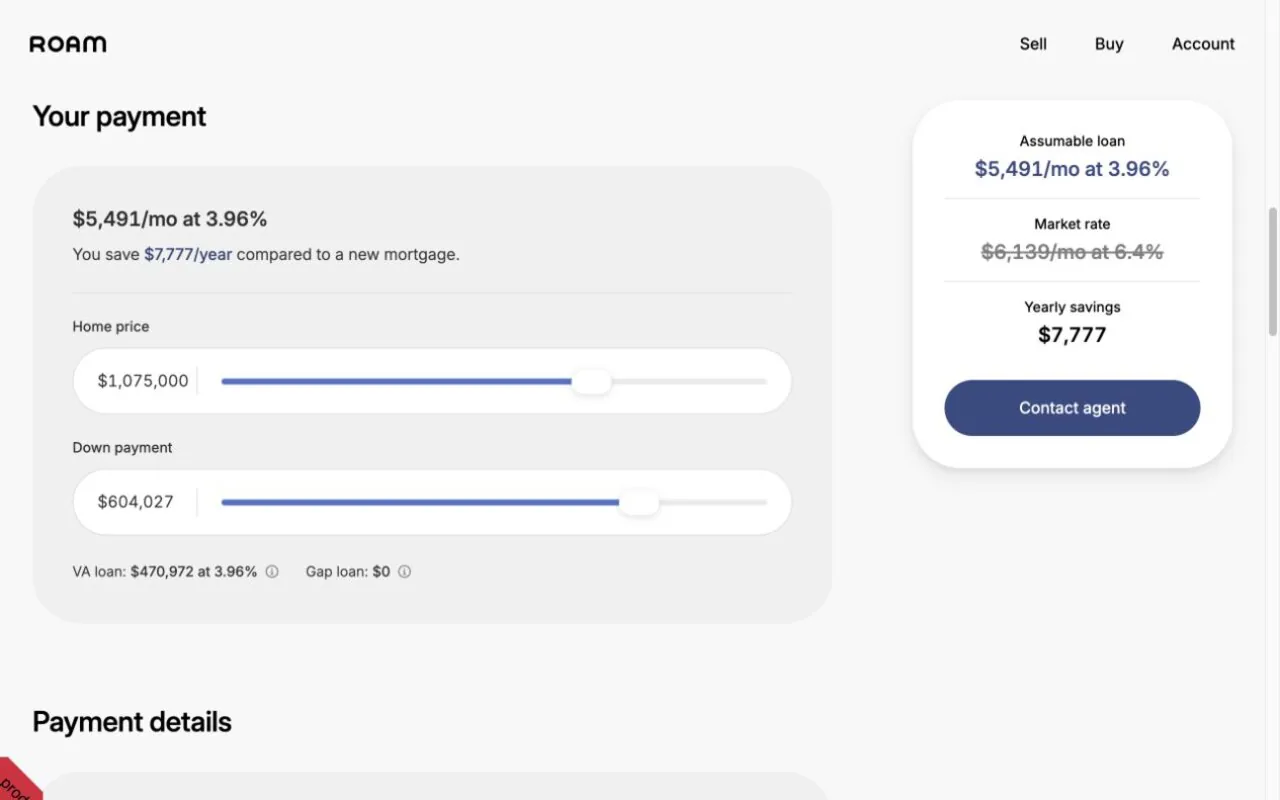
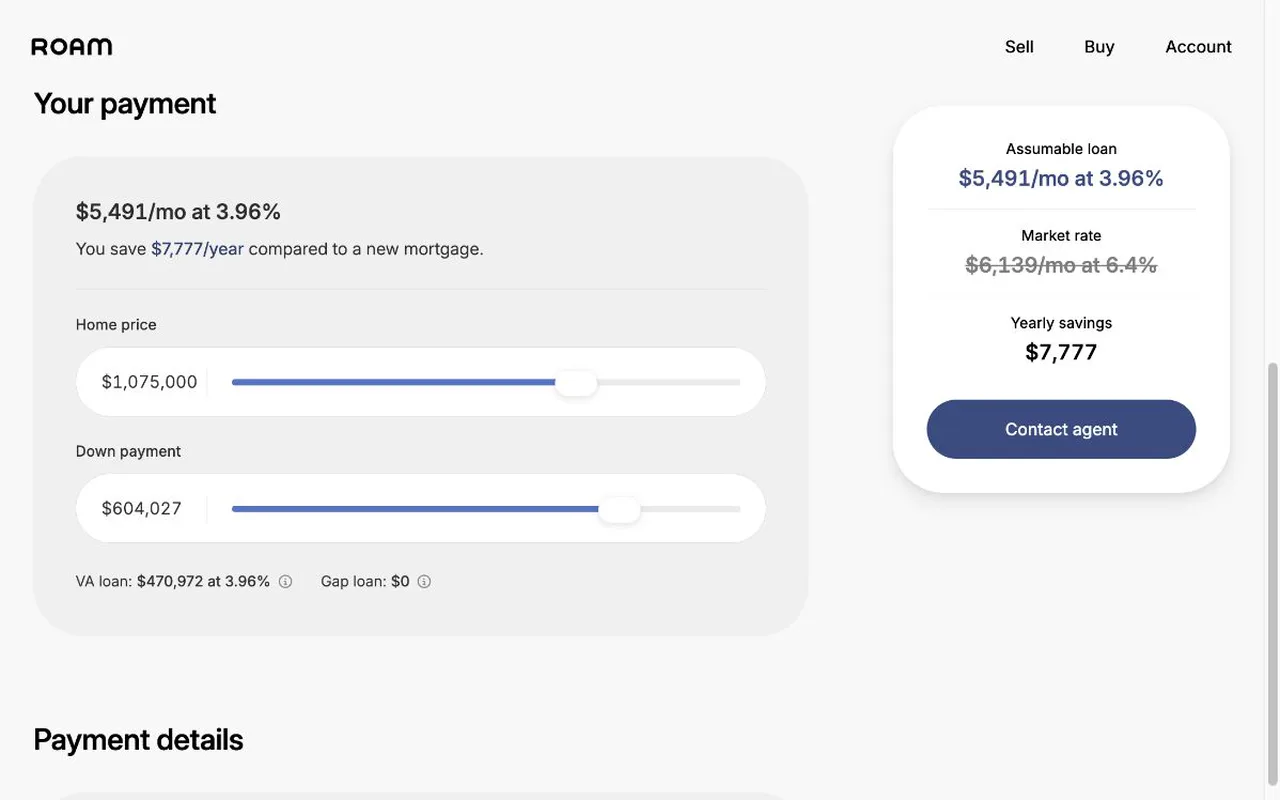
Add smooth authenticated Roam calculator demo

diff --git a/tests/e2e/about.spec.ts b/tests/e2e/about.spec.ts
@@ -42,9 +42,9 @@ test('about page carries the broader story, experience, and education', async ({
   await expect(disclosures).toHaveCount(3);
   await expect(mediaRegion.locator('.work-samples')).toHaveCount(3);
   await expect(mediaRegion.locator('.media-shot')).toHaveCount(6);
-  await expect(mediaRegion.locator('img')).toHaveCount(5);
-  await expect(mediaRegion.locator('video')).toHaveCount(1);
-  await expect(mediaRegion.locator('[data-product-video]')).toHaveCount(1);
+  await expect(mediaRegion.locator('img')).toHaveCount(4);
+  await expect(mediaRegion.locator('video')).toHaveCount(2);
+  await expect(mediaRegion.locator('[data-product-video]')).toHaveCount(2);
   await expect(mediaRegion.locator('.work-samples a')).toHaveCount(0);
   await expect(mediaRegion).toContainText('synthetic demo data');
   await expect(mediaRegion).not.toContainText('2 screens');
@@ -89,7 +89,22 @@ test('about page carries the broader story, experience, and education', async ({
   await expect(marketplaceDisclosure.locator('.media-shot').first()).toBeVisible();
   await expect(marketplaceDisclosure).not.toHaveAttribute('data-track-motion', 'opening');
 
-  const mobileSearchDemo = marketplaceDisclosure.locator('[data-product-video]');
+  const desktopCalculatorDemo = marketplaceDisclosure.locator('[data-product-video]').first();
+  const desktopCalculatorVideo = desktopCalculatorDemo.locator('video');
+  await desktopCalculatorDemo.hover();
+  await expect(desktopCalculatorDemo).toHaveAttribute('aria-pressed', 'true');
+  await expect
+    .poll(() => desktopCalculatorVideo.evaluate((video) => (video as HTMLVideoElement).currentTime))
+    .toBeGreaterThan(0.1);
+  const desktopVideoDimensions = await desktopCalculatorVideo.evaluate((video) => ({
+    width: (video as HTMLVideoElement).videoWidth,
+    height: (video as HTMLVideoElement).videoHeight,
+  }));
+  expect(desktopVideoDimensions).toEqual({ width: 1280, height: 800 });
+  await page.mouse.move(8, 8);
+  await expect(desktopCalculatorDemo).toHaveAttribute('aria-pressed', 'false');
+
+  const mobileSearchDemo = marketplaceDisclosure.locator('.media-shot--phone [data-product-video]');
   const mobileSearchVideo = mobileSearchDemo.locator('video');
   await mobileSearchDemo.hover();
   await expect(mobileSearchDemo).toHaveAttribute('aria-pressed', 'true');

diff --git a/tests/unit/site-data.test.ts b/tests/unit/site-data.test.ts
@@ -240,7 +240,9 @@ test('Roam experience media uses public product screens and a sanitized harness 
   for (const id of ['roam-marketplace', 'reed', 'agent-harness']) {
     expect(roamWorkSamplesSource).toContain(`id: '${id}'`);
   }
-  expect(roamWorkSamplesSource).toContain('roam-calculator-authenticated.webp');
+  expect(roamWorkSamplesSource).toContain('roam-calculator.webm');
+  expect(roamWorkSamplesSource).toContain('roam-calculator.mp4');
+  expect(roamWorkSamplesSource).toContain('roam-calculator-poster.webp');
   expect(roamWorkSamplesSource).toContain('roam-search-mobile.webm');
   expect(roamWorkSamplesSource).toContain('roam-search-mobile.mp4');
   expect(roamWorkSamplesSource).toContain('roam-search-mobile-poster.webp');
@@ -250,6 +252,7 @@ test('Roam experience media uses public product screens and a sanitized harness 
   expect(experienceReadme).toContain('ROAM_STORAGE_STATE');
   expect(roamWorkSamplesSource).toContain('data-product-video');
   expect(roamWorkSamplesSource).toContain('data-phone-frame');
+  expect(roamWorkSamplesSource).not.toContain('<figcaption');
   expect(roamWorkSamplesSource).toContain('prefers-reduced-motion: reduce');
   expect(roamWorkSamplesSource).toContain('reed-home.jpg');
   expect(roamWorkSamplesSource).toContain('reed-chat.jpg');

diff --git a/src/assets/experience/README.md b/src/assets/experience/README.md
@@ -2,9 +2,9 @@
 
 These local images and the public video assets in `public/media/` support the Roam work samples on `/about`. The section does not link to the live products, so the visual record remains useful if a public route changes or disappears.
 
-- `roam-calculator-authenticated.webp` is the authenticated 1280×800 calculator still rendered on `/about`. It shows the full desktop navigation—including Account—the assumable 3.96% payment, yearly savings, and both calculator sliders.
+- `public/media/roam-calculator.*` is the authenticated 1280×800 calculator recording rendered on `/about`. Its 30 fps WebM and MP4 encodes show the full desktop navigation—including Account—the assumable 3.96% payment, yearly savings, and the expanded principal, property-tax, and home-insurance details.
 - `public/media/roam-search-mobile.*` is the rendered 390×844 Austin search recording. It is a true 25 fps browser recording normalized to 30 fps for delivery, opens the mobile filter sheet, applies a 3.5% maximum rate, and scrolls the filtered results. The WebM and MP4 encodes share `roam-search-mobile-poster.webp` and fit the inline SVG phone frame without cropping or blank page space.
-- `public/media/roam-search.*`, `public/media/roam-calculator.*`, and `public/media/roam-calculator-mobile.*` remain committed as optional authenticated alternates, but are not rendered so the current presentation stays focused.
+- `public/media/roam-search.*` and `public/media/roam-calculator-mobile.*` remain committed as optional alternates, but are not rendered so the current presentation stays focused.
 - `scripts/record-roam-demos.mjs` regenerates the authenticated desktop search and calculator captures at 30 fps, along with WebP posters and MP4 fallbacks when the selected ffmpeg build includes `libx264`. `ROAM_STORAGE_STATE` is required and must point to a deliberately exported Playwright storage-state file; the script never reads the in-app browser's session.
 - `reed-home.jpg` and `reed-chat.jpg` were captured from Reed's public homepage and unauthenticated buyer-start flow.
 - `agent-harness-chat.png` and `agent-harness-subagents.png` were captured from an isolated Mission Control test server. The harness used temporary storage, fake CLIs, and a manually seeded synthetic launch-review transcript; it did not read live Mission Control state.